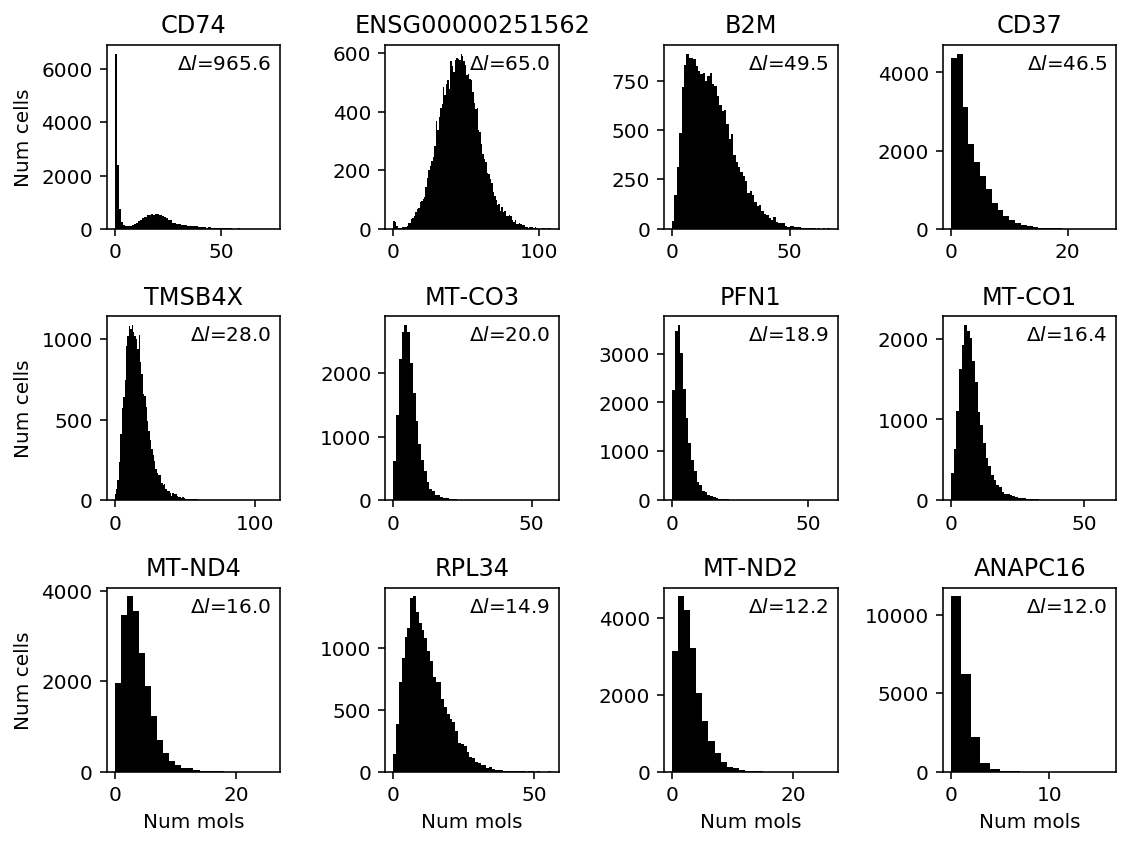
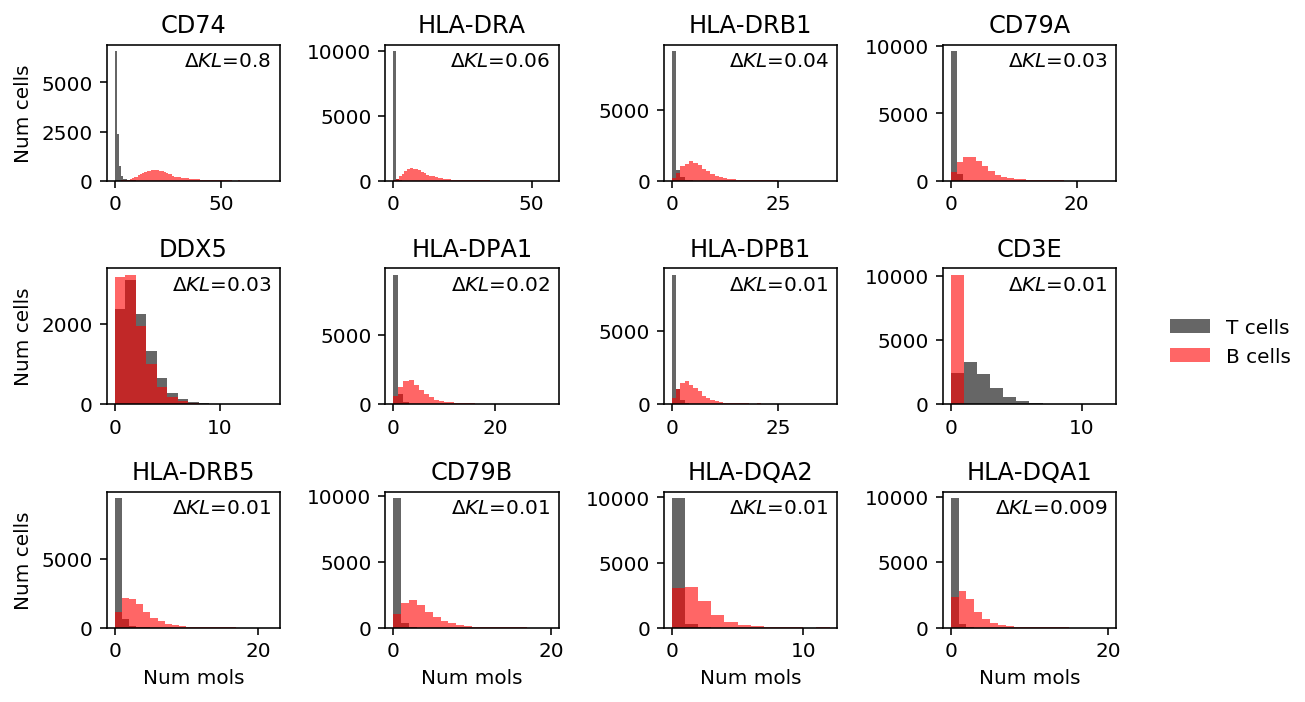
Republish synthetic mix examples

diff --git a/docs/deconv-examples.html b/docs/deconv-examples.html
@@ -1,7 +1,7 @@
 <!DOCTYPE html>
 <html lang="en">
 <head>
-<!-- 2019-05-22 Wed 10:53 -->
+<!-- 2019-05-22 Wed 15:25 -->
 <meta charset="utf-8">
 <meta name="viewport" content="width=device-width, initial-scale=1">
 <title>Distribution deconvolution examples</title>
@@ -1125,39 +1125,37 @@ Read the data.
 </p>
 
 <div class="org-src-container">
-<pre class="src src-ipython"><span class="org-variable-name">t_cells</span> = scmodes.dataset.read_10x(<span class="org-string">'/project2/mstephens/aksarkar/projects/singlecell-ideas/data/10xgenomics/cytotoxic_t/filtered_matrices_mex/hg19/'</span>, return_df=<span class="org-constant">True</span>)
-<span class="org-variable-name">b_cells</span> = scmodes.dataset.read_10x(<span class="org-string">'/project2/mstephens/aksarkar/projects/singlecell-ideas/data/10xgenomics/b_cells/filtered_matrices_mex/hg19/'</span>, return_df=<span class="org-constant">True</span>)
-<span class="org-variable-name">mix1</span>, <span class="org-variable-name">y1</span> = scmodes.dataset.synthetic_mix(t_cells, b_cells)
+<pre class="src src-ipython"><span class="org-variable-name">t_cells</span> = scmodes.dataset.read_10x(<span class="org-string">'/project2/mstephens/aksarkar/projects/singlecell-ideas/data/10xgenomics/cytotoxic_t/filtered_matrices_mex/hg19/'</span>, min_detect=0, return_df=<span class="org-constant">True</span>)
+<span class="org-variable-name">b_cells</span> = scmodes.dataset.read_10x(<span class="org-string">'/project2/mstephens/aksarkar/projects/singlecell-ideas/data/10xgenomics/b_cells/filtered_matrices_mex/hg19/'</span>, min_detect=0, return_df=<span class="org-constant">True</span>)
+<span class="org-variable-name">mix1</span>, <span class="org-variable-name">y1</span> = scmodes.dataset.synthetic_mix(t_cells, b_cells, min_detect=0.25)
 
-<span class="org-variable-name">cyto</span> = scmodes.dataset.read_10x(prefix=<span class="org-string">'/project2/mstephens/aksarkar/projects/singlecell-ideas/data/10xgenomics/cytotoxic_t/filtered_matrices_mex/hg19'</span>, return_df=<span class="org-constant">True</span>)
-<span class="org-variable-name">naive</span> = scmodes.dataset.read_10x(prefix=<span class="org-string">'/project2/mstephens/aksarkar/projects/singlecell-ideas/data/10xgenomics/naive_cytotoxic/filtered_matrices_mex/hg19'</span>, return_df=<span class="org-constant">True</span>)
-<span class="org-variable-name">mix2</span>, <span class="org-variable-name">y2</span> = scmodes.dataset.synthetic_mix(cyto, naive)
+<span class="org-variable-name">cyto</span> = scmodes.dataset.read_10x(prefix=<span class="org-string">'/project2/mstephens/aksarkar/projects/singlecell-ideas/data/10xgenomics/cytotoxic_t/filtered_matrices_mex/hg19'</span>, return_df=<span class="org-constant">True</span>, min_detect=0)
+<span class="org-variable-name">naive</span> = scmodes.dataset.read_10x(prefix=<span class="org-string">'/project2/mstephens/aksarkar/projects/singlecell-ideas/data/10xgenomics/naive_cytotoxic/filtered_matrices_mex/hg19'</span>, return_df=<span class="org-constant">True</span>, min_detect=0)
+<span class="org-variable-name">mix2</span>, <span class="org-variable-name">y2</span> = scmodes.dataset.synthetic_mix(cyto, naive, min_detect=0.25)
 </pre>
 </div>
 
 <p>
-Look at genes in the T cell/B cell mix where NPMLE has higher validation
-set log likelihood than NB.
+Look at T cell/B cell mix.
 </p>
 
 <div class="org-src-container">
-<pre class="src src-ipython"><span class="org-variable-name">llik_diff</span> = benchmark[<span class="org-string">'cd8-cd19-mix'</span>][<span class="org-string">'npmle'</span>] - benchmark[<span class="org-string">'cd8-cd19-mix'</span>][<span class="org-string">'gamma'</span>]
-<span class="org-variable-name">query</span> = benchmark[<span class="org-string">'cd8-cd19-mix'</span>].loc[llik_diff[llik_diff &gt; 0].sort_values(ascending=<span class="org-constant">False</span>).head(n=12).index].index
-</pre>
-</div>
-
-<div class="org-src-container">
-<pre class="src src-ipython">plt.clf()
+<pre class="src src-ipython"><span class="org-variable-name">llik_diff</span> = benchmark[<span class="org-string">'cd8-cd19-mix'</span>][<span class="org-string">'npmle'</span>] - benchmark[<span class="org-string">'cd8-cd19-mix'</span>][<span class="org-string">'unimodal'</span>]
+<span class="org-variable-name">query</span> = benchmark[<span class="org-string">'cd8-cd19-mix'</span>].loc[llik_diff[llik_diff &gt; 0].sort_values(ascending=<span class="org-constant">False</span>).head(n=12).index].index.astype(<span class="org-builtin">int</span>)
+plt.clf()
 <span class="org-variable-name">fig</span>, <span class="org-variable-name">ax</span> = plt.subplots(3, 4)
-fig.set_size_inches(8, 6)
+fig.set_size_inches(8, 5)
 <span class="org-keyword">for</span> a, k <span class="org-keyword">in</span> <span class="org-builtin">zip</span>(ax.ravel(), query):
-  a.hist(mix1.iloc[:,k], bins=np.arange(mix1.iloc[:,k].<span class="org-builtin">max</span>() + 1), color=<span class="org-string">'k'</span>)
+  <span class="org-variable-name">h</span> = a.hist(mix1.loc[y1 == 1,mix1.columns[k]], bins=np.arange(mix1.iloc[:,k].<span class="org-builtin">max</span>() + 1), color=<span class="org-string">'k'</span>, alpha=0.6, label=<span class="org-string">'T cells'</span>)
+  a.hist(mix1.loc[y1 == 0,mix1.columns[k]], bins=np.arange(mix1.iloc[:,k].<span class="org-builtin">max</span>() + 1), color=<span class="org-string">'r'</span>, alpha=0.6, label=<span class="org-string">'B cells'</span>)
   a.text(x=.95, y=.95,
-         s=f<span class="org-string">"$\Delta l$={benchmark['cd8-cd19-mix']['npmle'].loc[k] - benchmark['cd8-cd19-mix']['gamma'].loc[k]:.1f}"</span>,
+         s=f<span class="org-string">"$\Delta KL$={llik_diff.iloc[k]:.1g}"</span>,
          horizontalalignment=<span class="org-string">'right'</span>,
          verticalalignment=<span class="org-string">'top'</span>,
          transform=a.transAxes)
   a.set_title(gene_info.loc[mix1.columns[k], <span class="org-string">'name'</span>] <span class="org-keyword">if</span> mix1.columns[k] <span class="org-keyword">in</span> gene_info.index <span class="org-keyword">else</span> mix1.columns[k])
+<span class="org-variable-name">handles</span>, <span class="org-variable-name">labels</span> = a.get_legend_handles_labels()
+fig.legend(handles, labels, frameon=<span class="org-constant">False</span>, loc=<span class="org-string">'center left'</span>, bbox_to_anchor=(1, 0.5))
 <span class="org-keyword">for</span> a <span class="org-keyword">in</span> ax:
   a[0].set_ylabel(<span class="org-string">'Num cells'</span>)
 <span class="org-keyword">for</span> a <span class="org-keyword">in</span> ax.T:
@@ -1173,68 +1171,26 @@ fig.tight_layout()
 </div>
 
 <p>
-Look at <i>CD74</i> gene expression, stratified by known cell type.
+Look cytotoxic/naive T cell mix.
 </p>
 
 <div class="org-src-container">
-<pre class="src src-ipython">plt.clf()
-<span class="org-variable-name">fig</span>, <span class="org-variable-name">ax</span> = plt.subplots(1, 2, sharey=<span class="org-constant">True</span>)
-fig.set_size_inches(5, 2)
-<span class="org-keyword">for</span> i, a <span class="org-keyword">in</span> <span class="org-builtin">enumerate</span>(ax):
-  a.hist(mix1.loc[y1 == i,mix1.columns[query[0]]], bins=np.arange(mix1.loc[:,mix1.columns[query[0]]].<span class="org-builtin">max</span>() + 1), color=<span class="org-string">'k'</span>)
-  a.set_title([<span class="org-string">'B cells'</span>, <span class="org-string">'T cells'</span>][i])
-  a.set_xlabel(<span class="org-string">'Number of molecules'</span>)
-ax[0].set_ylabel(<span class="org-string">'Number of cells'</span>)
-</pre>
-</div>
-
-<pre class="example">
-Text(0, 0.5, 'Number of cells')
-
-</pre>
-
-<div class="figure">
-<p><img src="figure/deconvolution.org/cd74-example.png" alt="cd74-example.png">
-</p>
-</div>
-
-<p>
-Look at genes in the Cytotoxic/naive T cell mix where NPMLE has higher
-validation set log likelihood than NB.'
-</p>
-
-<div class="org-src-container">
-<pre class="src src-ipython"><span class="org-variable-name">llik_diff</span> = benchmark[<span class="org-string">'cyto-naive-t-mix'</span>][<span class="org-string">'npmle'</span>] - benchmark[<span class="org-string">'cyto-naive-t-mix'</span>][<span class="org-string">'gamma'</span>]
+<pre class="src src-ipython"><span class="org-variable-name">llik_diff</span> = benchmark[<span class="org-string">'cyto-naive-t-mix'</span>][<span class="org-string">'npmle'</span>] - benchmark[<span class="org-string">'cyto-naive-t-mix'</span>][<span class="org-string">'unimodal'</span>]
 <span class="org-variable-name">query</span> = benchmark[<span class="org-string">'cyto-naive-t-mix'</span>].loc[llik_diff[llik_diff &gt; 0].sort_values(ascending=<span class="org-constant">False</span>).head(n=12).index].index
-</pre>
-</div>
-
-<p>
-Count how many genes this is the case for.
-</p>
-
-<div class="org-src-container">
-<pre class="src src-ipython">benchmark[<span class="org-string">'cyto-naive-t-mix'</span>].loc[llik_diff &gt; 0].shape[0]
-</pre>
-</div>
-
-<pre class="example">
-240
-
-</pre>
-
-<div class="org-src-container">
-<pre class="src src-ipython">plt.clf()
+plt.clf()
 <span class="org-variable-name">fig</span>, <span class="org-variable-name">ax</span> = plt.subplots(3, 4)
-fig.set_size_inches(8, 6)
+fig.set_size_inches(8, 5)
 <span class="org-keyword">for</span> a, k <span class="org-keyword">in</span> <span class="org-builtin">zip</span>(ax.ravel(), query):
-  a.hist(mix2.loc[:,k], bins=np.arange(mix2.loc[:,k].<span class="org-builtin">max</span>() + 1), color=<span class="org-string">'k'</span>)
+  a.hist(mix2.loc[y1 == 1,k], bins=np.arange(mix2.loc[:,k].<span class="org-builtin">max</span>() + 1), alpha=0.6, color=<span class="org-string">'k'</span>, label=<span class="org-string">'Cytotoxic T'</span>)
+  a.hist(mix2.loc[y1 == 0,k], bins=np.arange(mix2.loc[:,k].<span class="org-builtin">max</span>() + 1), alpha=0.6, color=<span class="org-string">'r'</span>, label=<span class="org-string">'Naive T'</span>)
   a.text(x=.95, y=.95,
-         s=f<span class="org-string">"$\Delta l$={benchmark['cyto-naive-t-mix']['npmle'].loc[k] - benchmark['cyto-naive-t-mix']['gamma'].loc[k]:.1f}"</span>,
+         s=f<span class="org-string">"$\Delta KL$={llik_diff.loc[k]:.1g}"</span>,
          horizontalalignment=<span class="org-string">'right'</span>,
          verticalalignment=<span class="org-string">'top'</span>,
          transform=a.transAxes)
   a.set_title(gene_info.loc[k, <span class="org-string">'name'</span>] <span class="org-keyword">if</span> k <span class="org-keyword">in</span> gene_info.index <span class="org-keyword">else</span> k)
+<span class="org-variable-name">handles</span>, <span class="org-variable-name">labels</span> = a.get_legend_handles_labels()
+fig.legend(handles, labels, frameon=<span class="org-constant">False</span>, loc=<span class="org-string">'center left'</span>, bbox_to_anchor=(1, 0.5))
 <span class="org-keyword">for</span> a <span class="org-keyword">in</span> ax:
   a[0].set_ylabel(<span class="org-string">'Num cells'</span>)
 <span class="org-keyword">for</span> a <span class="org-keyword">in</span> ax.T:
@@ -1257,32 +1213,6 @@ through interaction with NF-κB
 (<a href="https://febs.onlinelibrary.wiley.com/doi/full/10.1002/1873-3468.12315">Zhao
 et al. 2016</a>).
 </p>
-
-<p>
-Stratify <i>MALAT1</i> gene expression by known cell type.
-</p>
-
-<div class="org-src-container">
-<pre class="src src-ipython">plt.clf()
-<span class="org-variable-name">fig</span>, <span class="org-variable-name">ax</span> = plt.subplots(1, 2, sharey=<span class="org-constant">True</span>)
-fig.set_size_inches(5, 2)
-<span class="org-keyword">for</span> i, a <span class="org-keyword">in</span> <span class="org-builtin">enumerate</span>(ax):
-  a.hist(mix2.loc[y2 == i,<span class="org-string">'ENSG00000251562'</span>], bins=np.arange(mix2.loc[:,<span class="org-string">'ENSG00000251562'</span>].<span class="org-builtin">max</span>() + 1), color=<span class="org-string">'k'</span>)
-  a.set_title([<span class="org-string">'Naive T cells'</span>, <span class="org-string">'Cytotoxic T cells'</span>][i])
-  a.set_xlabel(<span class="org-string">'Number of molecules'</span>)
-ax[0].set_ylabel(<span class="org-string">'Number of cells'</span>)
-</pre>
-</div>
-
-<pre class="example">
-Text(0, 0.5, 'Number of cells')
-
-</pre>
-
-<div class="figure">
-<p><img src="figure/deconvolution.org/MALAT1-example.png" alt="MALAT1-example.png">
-</p>
-</div>
 </div>
 </div>
 
@@ -1499,7 +1429,7 @@ fig.tight_layout()
 </div>
 <div id="postamble" class="status">
 <p class="author">Author: Abhishek Sarkar</p>
-<p class="date">Created: 2019-05-22 Wed 10:53</p>
+<p class="date">Created: 2019-05-22 Wed 15:25</p>
 <p class="validation"><a href="http://validator.w3.org/check?uri=referer">Validate</a></p>
 </div>
 </body>
